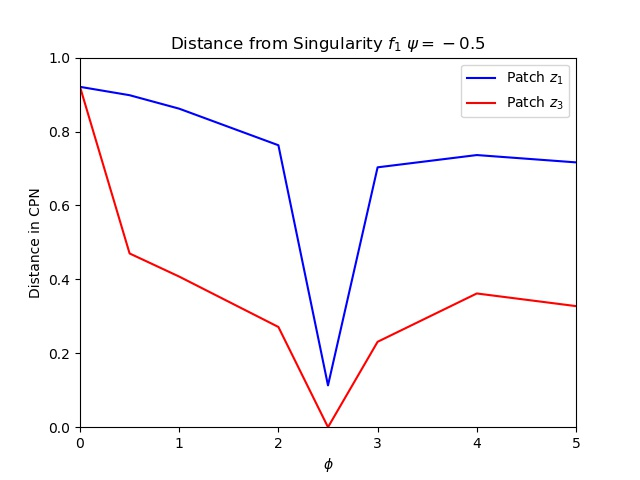
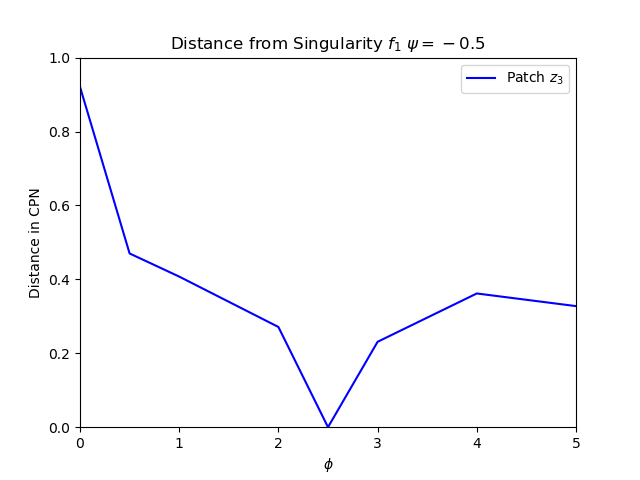
Altered F1 DistSing Plot

diff --git a/plot_singdistf1.py b/plot_singdistf1.py
@@ -8,8 +8,8 @@ singdist_patch1 = data[:,2]
 singdist_patch3 = data[:,3]
 
 
-plt.plot(phi,singdist_patch1,'b-',label='Patch $z_1$')
-plt.plot(phi,singdist_patch3,'r-',label='Patch $z_3$')
+#plt.plot(phi,singdist_patch1,'b-',label='Patch $z_1$')
+plt.plot(phi,singdist_patch3,'b-',label='Patch $z_3$')
 plt.xlabel('$\phi$')
 plt.ylabel('Distance in CPN')
 plt.title('Distance from Singularity $f_1$ $\psi=-0.5$')
